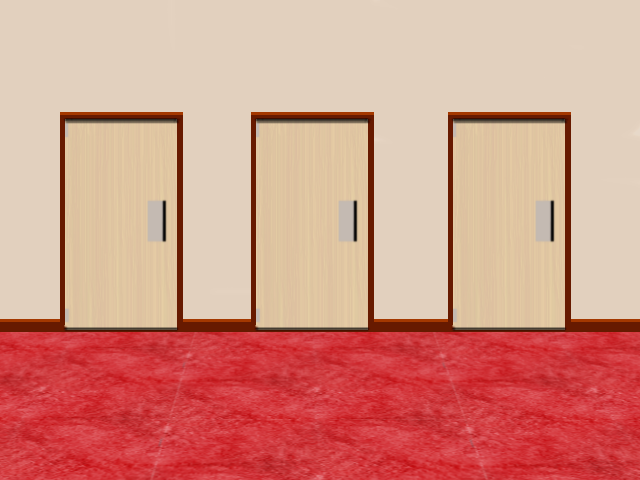
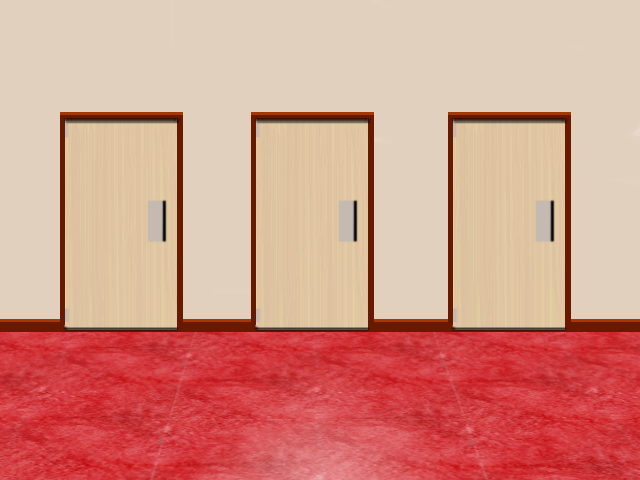
add base image to splash images, add comments to code, revise some images

Changed region(s): [[0.3438, 0.8438, 0.6562, 1.0]]

diff --git a/DT2-ENG-PROTO1.py b/DT2-ENG-PROTO1.py
@@ -27,15 +27,23 @@ pygame.display.set_caption("Doorway Trivia 2", "Doorway Trivia 2")
 simplefont = pygame.font.SysFont(None, 16)
 simplefontB = pygame.font.SysFont(None, 22)
 
+#load images
 bg1=pygame.image.load(os.path.join('TEX', 'bg1.png'))
 correctpic=pygame.image.load(os.path.join('TEX', 'DOOR_OPEN_HALL.PNG'))
 incorrectpic=pygame.image.load(os.path.join('TEX', 'DOOR_OPEN_FALL.PNG'))
+splashplate=pygame.image.load(os.path.join('TEX', 'splashplate.png'))
+#find centering coords of varoius splash images
 correctpicbox = correctpic.get_rect()
 correctpicbox.centerx = screensurf.get_rect().centerx
 correctpicbox.centery = ((screensurf.get_rect().centery))
+splashbox = splashplate.get_rect()
+splashbox.centerx = screensurf.get_rect().centerx
+splashbox.centery = ((screensurf.get_rect().centery))
 incorrectpicbox = incorrectpic.get_rect()
 incorrectpicbox.centerx = screensurf.get_rect().centerx
 incorrectpicbox.centery = ((screensurf.get_rect().centery))
+
+#imput function used in splash screen functions.
 
 def inpwait():
 	while True:
@@ -43,7 +51,7 @@ def inpwait():
 		for event in pygame.event.get():
 			if event.type == KEYDOWN:
 				return()
-
+#text functions used by splash screens
 def splashtext(texttodraw):
 	textit=simplefontB.render(texttodraw, True, (0, 0, 0), (255, 255, 255))
 	textbox = textit.get_rect()
@@ -59,24 +67,30 @@ def splashtextB(texttodraw):
 	textbox.centery = ((screensurf.get_rect().centery + 68))
 	screensurf.blit(textit, textbox)
 	pygame.display.update()
-
+#splash called upon correct awnser
 def correctsplash():
+	screensurf.blit(splashplate, splashbox)
 	screensurf.blit(correctpic, correctpicbox)
 	splashtext("Correct!")
 	pygame.display.update()
 	pygame.event.pump()
 	pygame.event.clear()
 	inpwait()
+#splash called upon incorrect awnser
 def incorrectsplash():
+	screensurf.blit(splashplate, splashbox)
 	screensurf.blit(incorrectpic, incorrectpicbox)
 	splashtext("Incorrect!")
 	pygame.display.update()
 	pygame.event.pump()
 	pygame.event.clear()
 	inpwait()
+#splash called upon script completion
 def winsplash():
+	screensurf.blit(splashplate, splashbox)
 	#screensurf.blit(correctpic, correctpicbox)
 	splashtext("Final Score:")
+	#shows final values of score and scoreof, thus showing the player their score. 
 	splashtextB((str(score) + "/" + str(scoreof)))
 	pygame.display.update()
 	pygame.event.pump()
@@ -84,10 +98,12 @@ def winsplash():
 	inpwait()
 
 screensurf.blit(bg1, (0, 0))
+#function used to get lines from trivia script
 def getinst(linenum):
 	linet=str(linecache.getline(trivfilepath, linenum)).replace("\n", "")
 	#print ("getinst:\n" + linet)
 	return(linet)
+#some predefining of variables
 linetxt=""
 lineno=1
 trivauthor="unspecified"
@@ -96,7 +112,9 @@ trivtitle="unnamed"
 score=0
 scoreof=0
 
-
+#function used when a list should be shown as an interactive menu. i.e. multiple choice (:multi) questions.
+#displays the list as interactive menu and returns the number in the list that is selected by the player
+#(top/first entry would return as 1 if selected) 
 def iteratelist(listtoiterate):
 	findcnt=0
 	for flx in listtoiterate:
@@ -143,7 +161,7 @@ def iteratelist(listtoiterate):
 					evhappenflg=1
 					return(listhighnum)
 		
-
+#draws teh question text and shows the question number.
 def drawqtext(texttodraw):
 	textchunk=""
 	#print ("receved:" + texttodraw)
@@ -165,7 +183,7 @@ def drawqtext(texttodraw):
 			textchunk=(textchunk + texch)
 			#print "pong"
 	pygame.display.update()
-
+#main loop
 while linetxt!=":end":
 	screensurf.blit(bg1, (0, 0))
 	#time.sleep(0.8)
@@ -173,9 +191,10 @@ while linetxt!=":end":
 	#print("mainloop")
 	sublinetxt=""
 	sublinetxtb=""
+	#various declare functions
 	if linetxt==':declare-title':
 		trivtitle=getinst(lineno + 1)
-		pygame.display.set_caption(("Doorway Trivia 2 |" + trivtitle), ("Doorway Trivia 2 |" + trivtitle))
+		pygame.display.set_caption(("Doorway Trivia 2 | " + trivtitle), ("Doorway Trivia 2 | " + trivtitle))
 		print("set title to:" + trivtitle)
 		lineno += 2
 	elif linetxt==':declare-author':
@@ -186,6 +205,7 @@ while linetxt!=":end":
 		trivmode=getinst((lineno + 1))
 		print("set mode to:" + trivmode)
 		lineno += 2
+	#interpeter for multiple choice questions
 	elif linetxt==":multi":
 		while linetxt!="::":
 			if linetxt==":qtext":
@@ -226,8 +246,11 @@ while linetxt!=":end":
 			scoreof +=1
 			print("incorrect")
 			incorrectsplash()
+	#called when a function is not reconized, does not raise an exception when 
+	#this occures, such as a comment i.e. (#this a a comment)
 	else:
 		print("unkown" + linetxt)
 		lineno += 1
+#show winsplash
 winsplash()
 print "end"
